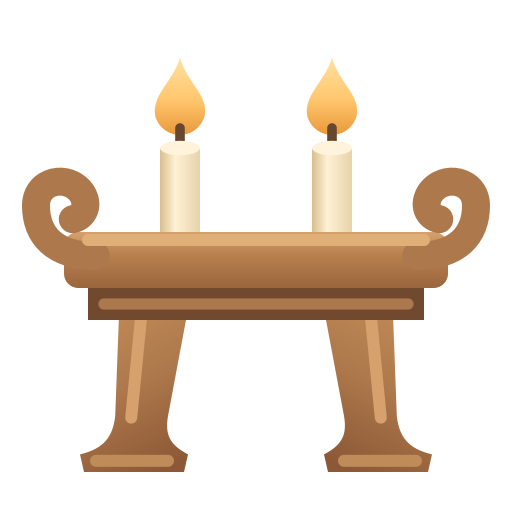
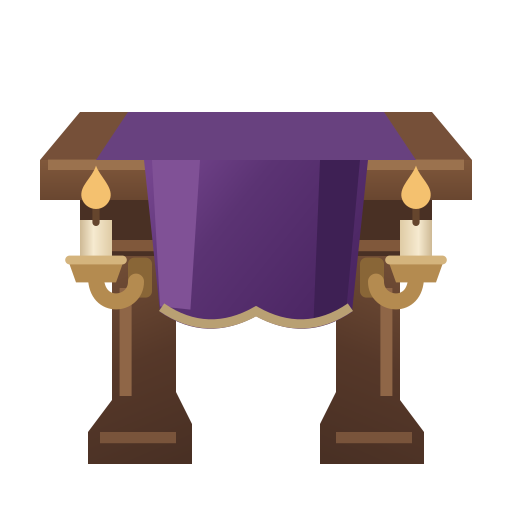
Drape the dark wooden Altar with purple cloth and front candles

diff --git a/docs/adr/15-frontend.md b/docs/adr/15-frontend.md
@@ -303,10 +303,10 @@ an always-available conversation surface, not a competing top-level instrument t
 `/bridge` links remain valid compatibility and focus destinations; exact session, Run, consent,
 Project, investigation and public-note intent must survive the composition change.
 
-A compact wooden altar mark with two separate legs and ivory candles opens About; a permanent
-product wordmark is unnecessary in the masthead. About retains the LychD identity, version,
-source and licence provenance. The fixed natural-colour mark is decorative identity, never a
-connection or activity indicator.
+A compact dark-wood altar mark with two separate legs, purple cloth and small front-mounted
+candles opens About; a permanent product wordmark is unnecessary in the masthead. About retains
+the LychD identity, version, source and licence provenance. The fixed natural-colour mark is
+decorative identity, never a connection or activity indicator.
 
 The dock's persistent edge chevron opens or collapses it; the masthead has no second toggle.
 New layouts start on the left, preserving a valid saved side. It can occupy either side and resize through a pointer or keyboard
